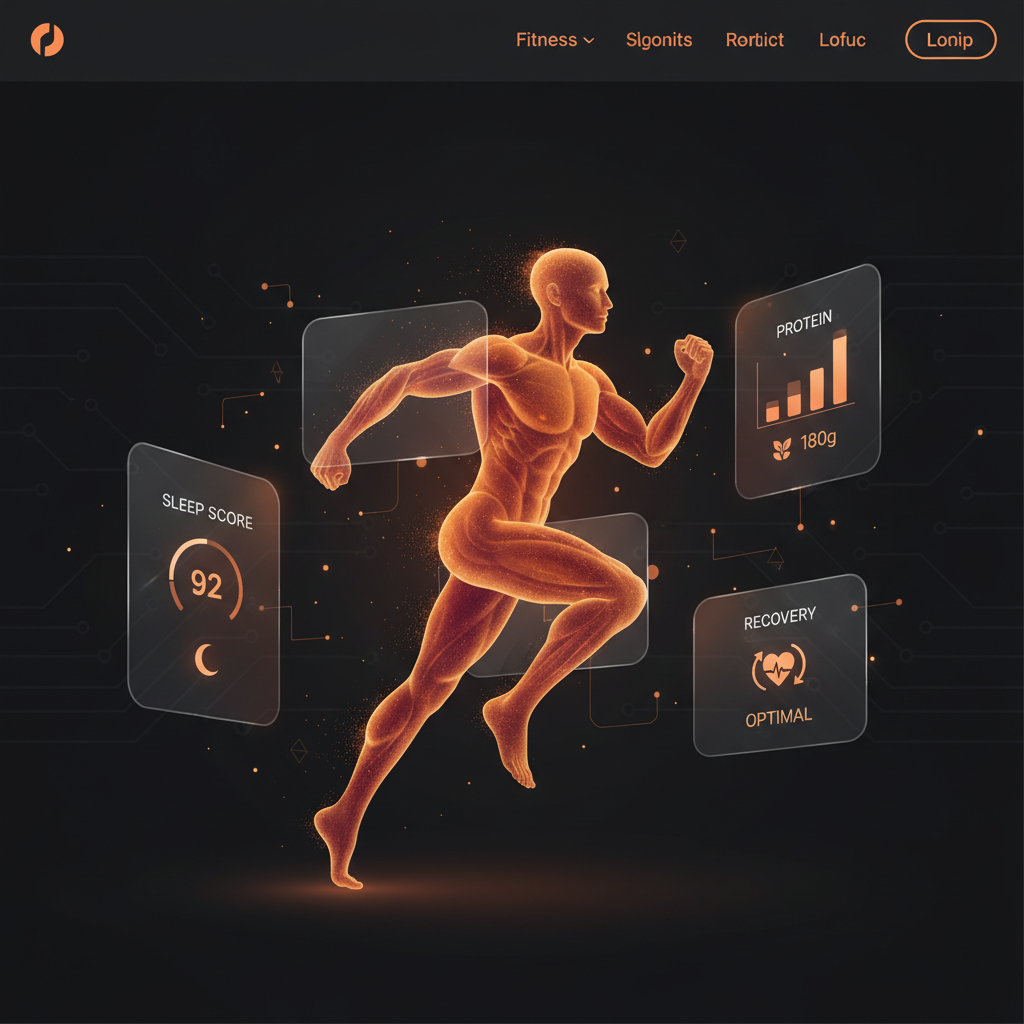
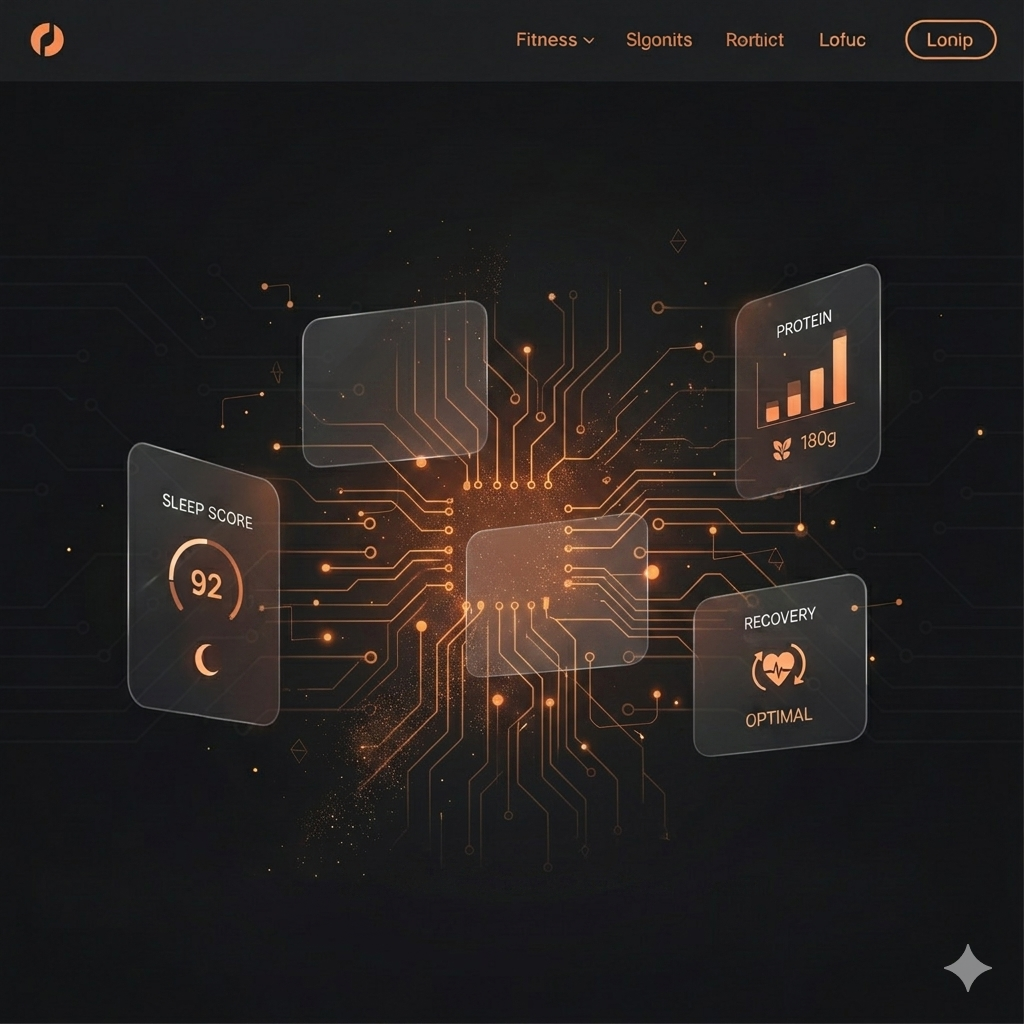
Update hero image, add bot link, remove price, add free CTA
- Replace hero banner with new Gemini-generated image
- All CTA buttons now link to t.me/EnergyHubAI_bot
- Remove 299₽ pricing, replace with "Попробовать бесплатно"
- Update FAQ to reflect free model

diff --git a/index.html b/index.html
@@ -1632,7 +1632,7 @@ m<!DOCTYPE html>
 <nav id="nav">
   <div class="nav-inner">
     <a href="#" class="logo">Energy<span>Hub</span></a>
-    <a href="#cta" class="nav-cta">Запустить бота <span aria-hidden="true">&rarr;</span></a>
+    <a href="https://t.me/EnergyHubAI_bot" class="nav-cta" target="_blank">Попробовать бесплатно <span aria-hidden="true">&rarr;</span></a>
   </div>
 </nav>
 
@@ -1669,10 +1669,10 @@ m<!DOCTYPE html>
     </div>
 
     <div class="hero-cta-group fade-in">
-      <a href="#cta" class="btn-primary">Попробовать за 299 &#8381; <span aria-hidden="true">&rarr;</span></a>
+      <a href="https://t.me/EnergyHubAI_bot" class="btn-primary" target="_blank">Попробовать бесплатно <span aria-hidden="true">&rarr;</span></a>
       <a href="#day" class="btn-secondary">Как это работает</a>
     </div>
-    <p class="hero-price fade-in">Разовый платёж. Без подписки. Без рекламы.</p>
+    <p class="hero-price fade-in">Бесплатно. Без подписки. Без рекламы.</p>
 
     <!-- HERO ILLUSTRATION -->
     <div class="hero-illustration fade-in">
@@ -2101,11 +2101,11 @@ m<!DOCTYPE html>
       </div>
       <div class="faq-item fade-in">
         <div class="faq-q">
-          <h3>&laquo;299 рублей &mdash; а вдруг не подойдёт?&raquo;</h3>
+          <h3>&laquo;Это правда бесплатно?&raquo;</h3>
           <div class="faq-toggle">+</div>
         </div>
         <div class="faq-a">
-          <p>299&#8381; &mdash; это разовый платёж, не подписка. Одна консультация эндокринолога &mdash; 3000-5000&#8381;. Подписка на трекер питания &mdash; 699&#8381;/мес. Месяц тренера &mdash; 15 000&#8381;+. EnergyHub заменяет часть всех трёх &mdash; за стоимость чашки кофе.</p>
+          <p>Да, сейчас EnergyHub полностью бесплатен. Мы на стадии запуска и хотим собрать первых пользователей, которые помогут сделать продукт лучше. Просто открой бота в Telegram и начни.</p>
         </div>
       </div>
       <div class="faq-item fade-in">
@@ -2114,7 +2114,7 @@ m<!DOCTYPE html>
           <div class="faq-toggle">+</div>
         </div>
         <div class="faq-a">
-          <p>Данные хранятся только в боте и не передаются третьим лицам. Нет рекламы, нет продажи данных. Единственная модель монетизации &mdash; твой платёж.</p>
+          <p>Данные хранятся только в боте и не передаются третьим лицам. Нет рекламы, нет продажи данных. Мы ценим твоё доверие.</p>
         </div>
       </div>
     </div>
@@ -2150,14 +2150,14 @@ m<!DOCTYPE html>
 <section class="cta-final" id="cta">
   <div class="container">
     <h2 class="fade-in">
-      299 &#8381; &mdash; и завтра утром<br>ты проснёшься с планом.
+      Завтра утром<br>ты проснёшься с планом.
     </h2>
     <p class="cta-final-sub fade-in">
       Подключи Whoop или Oura. Запиши что ел.
       Утром получишь первое сообщение &mdash; что делать, чтобы вернуть энергию как в 18.
     </p>
-    <a href="#" class="btn-primary fade-in">Попробовать за 299 &#8381; <span aria-hidden="true">&rarr;</span></a>
-    <p class="cta-final-note fade-in"><span>2 минуты</span> в день. Четыре ключа. Одна система. <strong>Первые 100 пользователей &mdash; по цене запуска.</strong></p>
+    <a href="https://t.me/EnergyHubAI_bot" class="btn-primary fade-in" target="_blank">Попробовать бесплатно <span aria-hidden="true">&rarr;</span></a>
+    <p class="cta-final-note fade-in"><span>2 минуты</span> в день. Четыре ключа. Одна система. <strong>Бесплатно для первых пользователей.</strong></p>
     <p class="cta-tagline fade-in">Управляй тем, что можешь измерить.</p>
   </div>
 </section>
